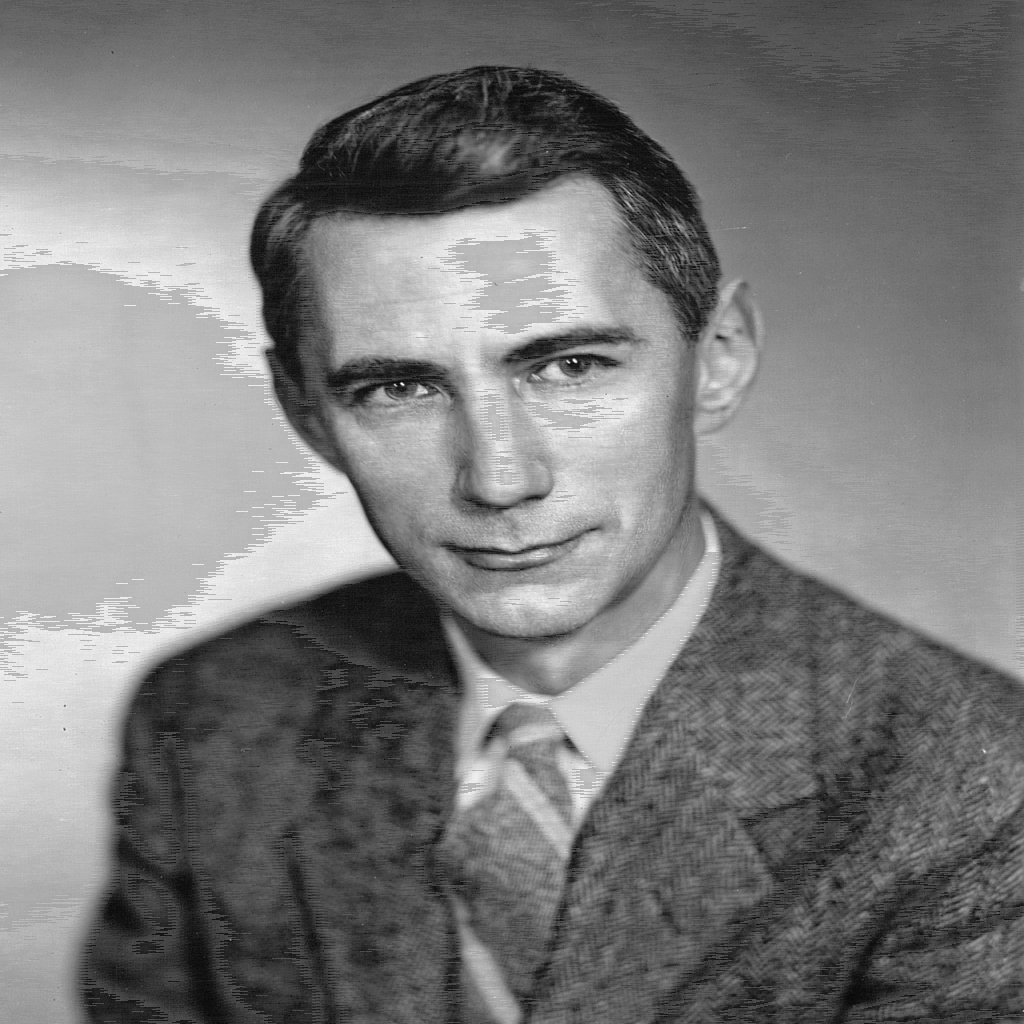
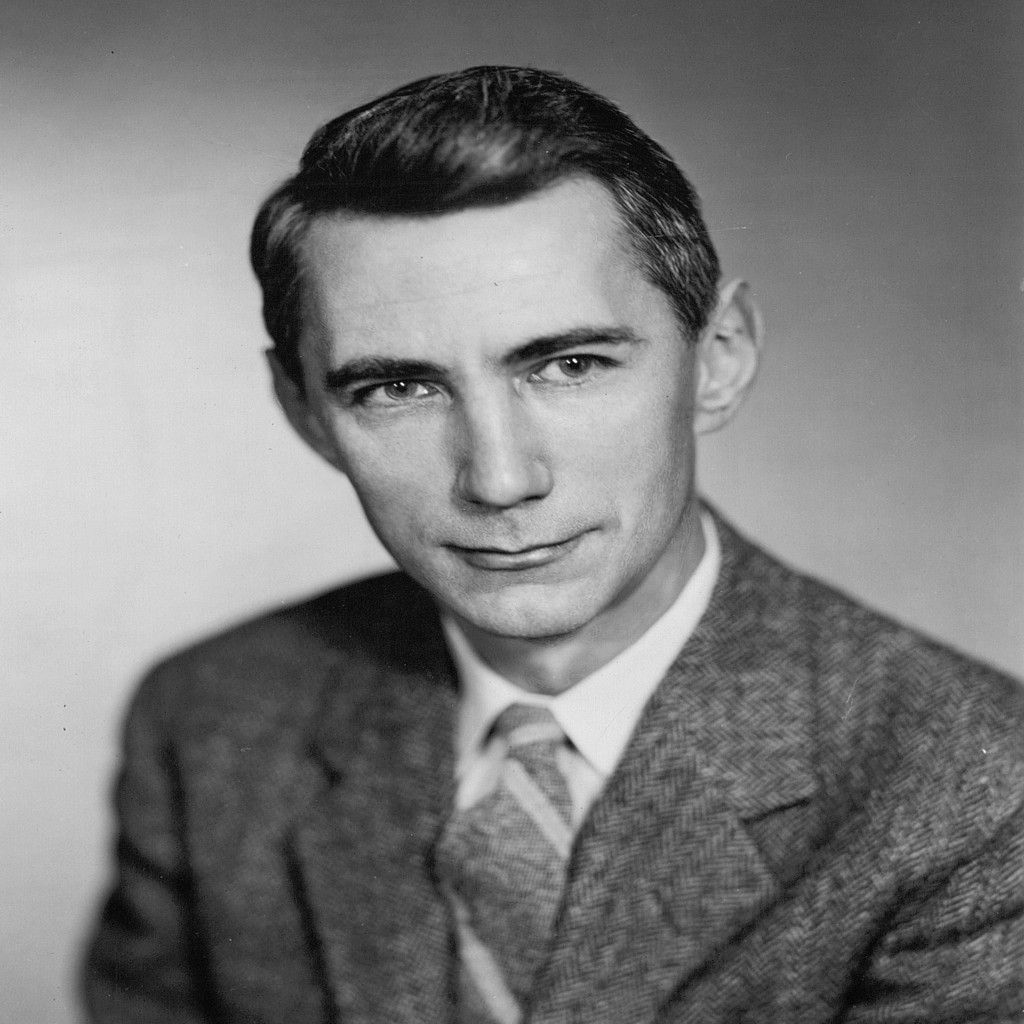
change commit

diff --git a/QPSK/conv-raw-to-image.py b/QPSK/conv-raw-to-image.py
@@ -2,7 +2,7 @@ import numpy as np
 from PIL import Image
 
 H = W = 1024
-INFILE = "bsc/rx_wiqout16.bin"  # 或 bfp/...
+INFILE = "mulaw/rx_wiqout12.bin"  # 或 bfp/...
 OUTPNG = "rx.png"
 
 x = np.fromfile(INFILE, dtype=np.complex64)
